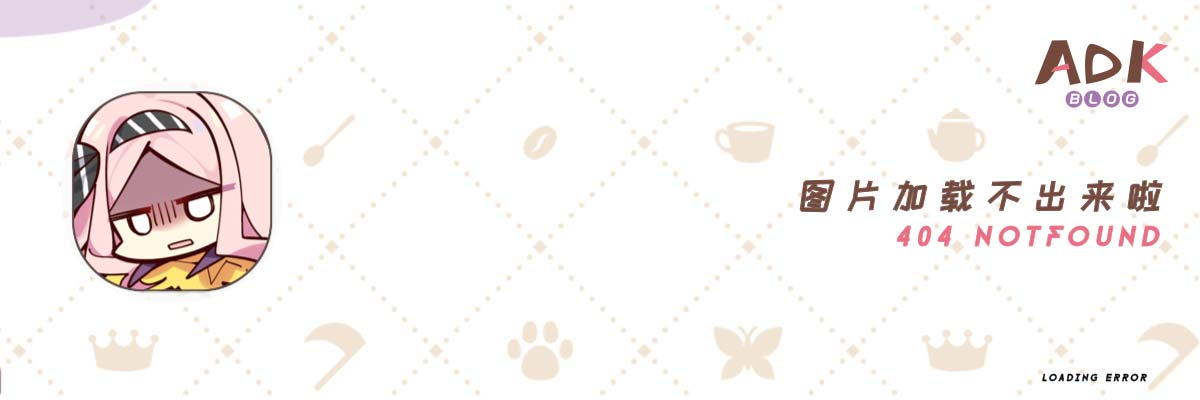
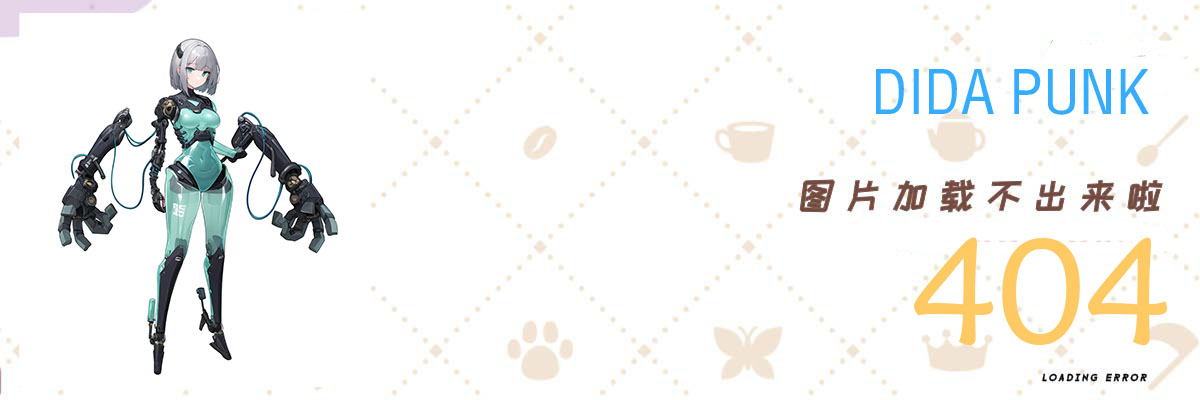
update

diff --git a/src/views/market/index.vue b/src/views/market/index.vue
@@ -1,170 +1,5 @@
 <template>
-  <div class="container-out">
-    <div class="top" ref="body" :style="{ perspectiveOrigin: `${581 + xPos}px ${476 + yPos}px` }">
-      <div class="container">
-        <div class="box" :style="{ transform: 'translate3d(-20px,350px,0px)' }">
-          <div class="mian1"></div>
-          <div class="mian2"></div>
-          <div class="mian3"></div>
-          <div class="mian4"></div>
-          <div class="mian5"></div>
-          <div class="mian6"></div>
-        </div>
-      </div>
-      <div class="container">
-        <div class="box" :style="{ transform: 'translate3d(230px,350px,0px)' }">
-          <div class="mian1"></div>
-          <div class="mian2"></div>
-          <div class="mian3"></div>
-          <div class="mian4"></div>
-          <div class="mian5"></div>
-          <div class="mian6"></div>
-        </div>
-      </div>
-      <div class="container">
-        <div class="box" :style="{ transform: 'translate3d(-20px,100px,-100px)', zIndex: -1 }">
-          <h2>我的微信是Adkweixin-</h2>
-          <div class="mian1"></div>
-          <div class="mian2"></div>
-          <div class="mian3"></div>
-          <div class="mian4"></div>
-          <div class="mian5"></div>
-          <div class="mian6"></div>
-        </div>
-      </div>
-      <div class="container">
-        <div class="box" :style="{ transform: 'translate3d(335px, 67px, 85px)', zIndex: 10 }">
-          <h2>你好~~~ 被你找到啦wwww</h2>
-          <div class="mian1"></div>
-          <div class="mian2"></div>
-          <div class="mian3"></div>
-          <div class="mian4"></div>
-          <div class="mian5"></div>
-          <div class="mian6"></div>
-        </div>
-      </div>
-      <div class="container">
-        <div class="box" :style="{ transform: 'translate3d(738px, 381px, -812px)', zIndex: -1 }">
-          <h2>可以给我留个言吗~</h2>
-          <div class="mian1"></div>
-          <div class="mian2"></div>
-          <div class="mian3"></div>
-          <div class="mian4"></div>
-          <div class="mian5"></div>
-          <div class="mian6"></div>
-        </div>
-      </div>
-      <div class="container">
-        <div class="box" :style="{ transform: 'translate3d(628px, 114px, -339px)', zIndex: -10 }">
-          <div class="mian1"></div>
-          <div class="mian2"></div>
-          <div class="mian3"></div>
-          <div class="mian4"></div>
-          <div class="mian5"></div>
-          <div class="mian6"></div>
-        </div>
-      </div>
-      <div class="container">
-        <div class="box" :style="{ transform: 'translate3d(1000px, 0px, -698px)', zIndex: -10 }">
-          <div class="mian1"></div>
-          <div class="mian2"></div>
-          <div class="mian3"></div>
-          <div class="mian4"></div>
-          <div class="mian5"></div>
-          <div class="mian6"></div>
-        </div>
-      </div>
-      <div class="container">
-        <div class="box" :style="{ transform: 'translate3d(142px, 628px, -252px)', zIndex: -1 }">
-          <div class="mian1"></div>
-          <div class="mian2"></div>
-          <div class="mian3"></div>
-          <div class="mian4"></div>
-          <div class="mian5"></div>
-          <div class="mian6"></div>
-        </div>
-      </div>
-      <div class="container">
-        <div class="box" :style="{ transform: 'translate3d(443px, 746px, -111px)', zIndex: -1 }">
-          <div class="mian1"></div>
-          <div class="mian2"></div>
-          <div class="mian3"></div>
-          <div class="mian4"></div>
-          <div class="mian5"></div>
-          <div class="mian6"></div>
-        </div>
-      </div>
-      <div class="container">
-        <div class="box" :style="{ transform: 'translate3d(487px, 602px, 500px)', zIndex: 1 }">
-          <div class="mian1"></div>
-          <div class="mian2"></div>
-          <div class="mian3"></div>
-          <div class="mian4"></div>
-          <div class="mian5"></div>
-          <div class="mian6"></div>
-        </div>
-      </div>
-      <div class="container">
-        <div class="box" :style="{ transform: 'translate3d(287px, 497px, 786px)', zIndex: 10 }">
-          <h2>关注b站NotFoundUsser</h2>
-          <div class="mian1" style="filter: brightness(0.9); blur: (2px)"></div>
-          <div class="mian2" style="filter: brightness(0.9); blur: (2px)"></div>
-          <div class="mian3" style="filter: brightness(0.9); blur: (2px)"></div>
-          <div class="mian4" style="filter: brightness(0.9); blur: (2px)"></div>
-          <div class="mian5" style="filter: brightness(0.9); blur: (2px)"></div>
-          <div class="mian6" style="filter: brightness(0.9); blur: (2px)"></div>
-        </div>
-      </div>
-      <div class="container">
-        <div class="box" :style="{ transform: 'translate3d(560px, 540px, 796px)', zIndex: 1 }">
-          <div class="mian1" style="filter: brightness(0.9)"></div>
-          <div class="mian2" style="filter: brightness(0.9)"></div>
-          <div class="mian3" style="filter: brightness(0.9)"></div>
-          <div class="mian4" style="filter: brightness(0.9)"></div>
-          <div class="mian5" style="filter: brightness(0.9)"></div>
-          <div class="mian6" style="filter: brightness(0.9)"></div>
-        </div>
-      </div>
-      <div class="logo">
-        <img src="@/assets/img/new-logo.png" alt="logo" />
-        <p style="font-size: 20px; margin-bottom: 10px">基于Vite和Vue3的个人博客</p>
-        <AdkButton
-          :spacing="0.6"
-          type="success"
-          :main-textsize="1.2"
-          @click="$router.push('/index')"
-        >
-          進入博客
-          <template #endesc> enter blog </template>
-        </AdkButton>
-      </div>
-      <ul class="icon-group">
-        <li>
-          <a href="https://github.com/ADKcodeXD" target="_blank"
-            ><i class="iconfont icon-github"></i
-          ></a>
-        </li>
-        <li>
-          <a href="https://space.bilibili.com/2988768" target="_blank"
-            ><i class="iconfont icon-bilibili-line"></i
-          ></a>
-        </li>
-        <li>
-          <a href="https://twitter.com/ADKinsoMaD" target="_blank"
-            ><i class="iconfont icon-tuite"></i
-          ></a>
-        </li>
-      </ul>
-    </div>
+  <div>
+    <img style="width: 100%" src="@/assets/img/shigong.jpg" alt="" />
   </div>
 </template>
-<script setup lang="ts">
-import { useMousePointer } from '@/hooks/useMouseAdk'
-import { useMouse } from '@vueuse/core'
-const { x, y } = useMouse()
-const body = ref<HTMLElement | null>(null)
-const { xPos, yPos } = useMousePointer(x, y, 5)
-</script>
-<style lang="less" scoped>
-// @import url(./styles/NewIndex.less);
-</style>

diff --git a/components.d.ts b/components.d.ts
@@ -13,11 +13,15 @@ declare module 'vue' {
     Carousel: typeof import('./src/components/Carousel/Carousel.vue')['default']
     ChatRoom: typeof import('./src/components/ChatRoom/ChatRoom.vue')['default']
     CommentItem: typeof import('./src/components/CommentItem/CommentItem.vue')['default']
+    ElAlert: typeof import('element-plus/es')['ElAlert']
     ElButton: typeof import('element-plus/es')['ElButton']
+    ElButtonGroup: typeof import('element-plus/es')['ElButtonGroup']
     ElCard: typeof import('element-plus/es')['ElCard']
     ElCarouselItem: typeof import('element-plus/es')['ElCarouselItem']
     ElCol: typeof import('element-plus/es')['ElCol']
     ElColorPicker: typeof import('element-plus/es')['ElColorPicker']
+    ElDatePicker: typeof import('element-plus/es')['ElDatePicker']
+    ElDialog: typeof import('element-plus/es')['ElDialog']
     ElDivider: typeof import('element-plus/es')['ElDivider']
     ElDropdown: typeof import('element-plus/es')['ElDropdown']
     ElDropdownItem: typeof import('element-plus/es')['ElDropdownItem']
@@ -27,14 +31,25 @@ declare module 'vue' {
     ElFormItem: typeof import('element-plus/es')['ElFormItem']
     ElHeader: typeof import('element-plus/es')['ElHeader']
     ElImage: typeof import('element-plus/es')['ElImage']
+    ElImageViewer: typeof import('element-plus/es')['ElImageViewer']
     ElInput: typeof import('element-plus/es')['ElInput']
+    ElOption: typeof import('element-plus/es')['ElOption']
+    ElPagination: typeof import('element-plus/es')['ElPagination']
+    ElRadio: typeof import('element-plus/es')['ElRadio']
+    ElRadioGroup: typeof import('element-plus/es')['ElRadioGroup']
     ElRow: typeof import('element-plus/es')['ElRow']
     ElScrollbar: typeof import('element-plus/es')['ElScrollbar']
+    ElSelect: typeof import('element-plus/es')['ElSelect']
     ElSlider: typeof import('element-plus/es')['ElSlider']
     ElSwitch: typeof import('element-plus/es')['ElSwitch']
+    ElTable: typeof import('element-plus/es')['ElTable']
+    ElTableColumn: typeof import('element-plus/es')['ElTableColumn']
+    ElTabPane: typeof import('element-plus/es')['ElTabPane']
+    ElTabs: typeof import('element-plus/es')['ElTabs']
     ElTag: typeof import('element-plus/es')['ElTag']
     ElTimeline: typeof import('element-plus/es')['ElTimeline']
     ElTimelineItem: typeof import('element-plus/es')['ElTimelineItem']
+    ElUpload: typeof import('element-plus/es')['ElUpload']
     FollowBangumiCard: typeof import('./src/components/FollowBangumiCard/FollowBangumiCard.vue')['default']
     FooterItem: typeof import('./src/components/Footer/FooterItem.vue')['default']
     Loading: typeof import('element-plus/es')['ElLoadingDirective']

diff --git a/src/views/aboutme/AboutMePage.vue b/src/views/aboutme/AboutMePage.vue
@@ -5,9 +5,9 @@
         <MyElimage :img="Touxiang" />
       </div>
       <h1 class="welcome" id="welcome">你好 旅行者</h1>
-      <h2 class="dida" id="dida">这里是嘀嗒博客站</h2>
+      <h2 class="dida" id="dida">这里是往生堂</h2>
       <div class="profile" id="profile">
-        <p class="label-1" :data-index="0">注册后可以进行发布文章，插图等操作。</p>
+        <p class="label-1" :data-index="0">注册后可以解锁发布文章等其他功能。</p>
         <p class="label-1" :data-index="1">
           后期可以去委托栏查看其他用户发布的任务，完成委托后成果物会发送给对方进行审核，核算后账户会发送对应的特许卷奖励
         </p>
@@ -18,13 +18,13 @@
           当别人接下委托完成并提交后，自己账号会收到成果物来审核，审核通过后特许卷会进行扣除并奖励给接收方
         </p>
         <p class="label-1" :data-index="4">
-          每月月底会进行资金池结算，群商城也会同步上架当期奖励物品，每样商品所需的特许卷不一样，用户可以根据自己手上的特许卷进行兑换
+          每月月底会进行资金池结算，往生堂也会同步上架各种奖励物品，每样商品所需的特许卷不一样，用户可以根据自己手上的特许卷进行兑换
         </p>
         <p class="label-1" :data-index="5">
-          目前还有很多待开发的东西如任务委托板块，天书板块，定时任务板块、AI板块、虚拟直播、量化盘、群AI同步等等
+          目前还有很多待开发的东西如任务委托板块，定时任务系统、AI板块、虚拟直播、量化盘、群AI机器人同步等
         </p>
         <p class="label-1" :data-index="7">
-          有想法建议的可以去<RouterLink to="/messageboard">留言板</RouterLink>给我留言
+          有想法建议的可以去<RouterLink to="/index/messageboard">任务板</RouterLink>给我留言
         </p>
         <p class="label-1" :data-index="9">写于2024.1.6 in 往生堂</p>
       </div>
@@ -32,7 +32,7 @@
         <div class="logo-img">
           <MyElimage :img="Logo" />
         </div>
-        <p class="logo2" :data-index="1">DIDA-blog 嘀嗒博客站</p>
+        <p class="logo2" :data-index="1">DIDA-PUNK 往生堂</p>
       </div>
     </div>
   </div>

diff --git a/src/assets/styles/global/element-plus.less b/src/assets/styles/global/element-plus.less
@@ -15,13 +15,13 @@
   --el-component-size-small: 24px;
   --el-color-white: @bgColor;
   --el-color-black: @textColor;
-  --el-color-primary: @themeColor;
-  --el-color-primary-light-3: color-mix(in srgb, @themeColor 10%, white);
-  --el-color-primary-light-5: color-mix(in srgb, @themeColor 15%, white);
-  --el-color-primary-light-7: color-mix(in srgb, @themeColor 20%, white);
-  --el-color-primary-light-8: color-mix(in srgb, @themeColor 25%, white);
-  --el-color-primary-light-9: color-mix(in srgb, @themeColor 30%, white);
-  --el-color-primary-dark-2: color-mix(in srgb, @themeColor 10%, black);
+  --el-color-primary: @themeColor2;
+  --el-color-primary-light-3: color-mix(in srgb, @themeColor2 10%, white);
+  --el-color-primary-light-5: color-mix(in srgb, @themeColor2 15%, white);
+  --el-color-primary-light-7: color-mix(in srgb, @themeColor2 20%, white);
+  --el-color-primary-light-8: color-mix(in srgb, @themeColor2 25%, white);
+  --el-color-primary-light-9: color-mix(in srgb, @themeColor2 30%, white);
+  --el-color-primary-dark-2: color-mix(in srgb, @themeColor2 10%, black);
   --el-color-success: #67c23a;
   --el-color-success-light-3: #95d475;
   --el-color-success-light-5: #b3e19d;

diff --git a/src/components/TopNavBar/components/Pollup.vue b/src/components/TopNavBar/components/Pollup.vue
@@ -49,7 +49,7 @@
         </router-link>
         <router-link @click="closePollup" to="/index/messageboard" active-class="router-active">
           <SvgIcon name="pinglun" class="tw-w-12 tw-h-12 tw-mr-2" />
-          留言板
+          任务板
         </router-link>
         <!-- <router-link @click="closePollup" to="/index/anime" active-class="router-active">
           <SvgIcon name="bofang" class="tw-w-12 tw-h-12 tw-mr-2" />
@@ -62,6 +62,10 @@
         <router-link @click="closePollup" to="/index/picture" active-class="router-active">
           <SvgIcon name="tupian" class="tw-w-12 tw-h-12 tw-mr-2" />
           画廊
+        </router-link>
+        <router-link @click="closePollup" to="/index/market" active-class="router-active">
+          <SvgIcon name="xinxi" class="tw-w-12 tw-h-12 tw-mr-2" />
+          市场
         </router-link>
       </div>
       <div class="button-login" v-if="userinfo.id">

diff --git a/src/router/index.ts b/src/router/index.ts
@@ -7,7 +7,7 @@ import '@/assets/styles/myNprogress.css'
 const routes: RouteRecordRaw[] = [
   {
     path: '/',
-    redirect: '/login'
+    redirect: '/index'
   },
   {
     path: '/index',
@@ -165,14 +165,14 @@ const routes: RouteRecordRaw[] = [
         component: () => import('@/views/picture/Picture.vue')
       },
       {
-        path: 'friendslink',
-        name: 'FriendsLink',
+        path: 'market',
+        name: 'Market',
         meta: {
-          title: '友情链接',
-          requireAuth: false,
-          keepAlive: false
+          title: '市场',
+          requireAuth: true,
+          keepAlive: true
         },
-        component: () => import('@/views/friendslink/FriendsLinkPage.vue')
+        component: () => import('@/views/market/index.vue')
       },
       {
         path: 'updatearticle/:id',

diff --git a/index.html b/index.html
@@ -2,13 +2,13 @@
 <html lang="cn">
   <head>
     <meta charset="UTF-8" />
-    <title>DIDA博客站</title>
+    <title>DIDA-PUNK</title>
     <link rel="icon" href="/favicon.ico" />
     <meta name="viewport" content="width=device-width, initial-scale=1.0" />
-    <meta name="description" content="DIDA博客站" />
+    <meta name="description" content="DIDA-PUNK" />
     <meta
       name="keywords"
-      content="个人博客,DIDA-blog,DIDA,waterdrop,VUE博客"
+      content="个人博客,DIDA-PUNK,DIDA,waterdrop"
     />
     <meta name="author" content="GGT" />
     <meta name="viewport" content="width=device-width,initial-scale=1.0" />

diff --git a/src/views/animedetail/index.vue b/src/views/animedetail/index.vue
@@ -136,10 +136,10 @@ provide('infoboxVal', infoBox)
 useHead({
   title: computed(() => {
     if (animeDetail.value) {
-      if (animeDetail.value.name_cn) return `${animeDetail.value.name_cn}-DIDA-BLOG`
-      else return `${animeDetail.value.name}-DIDA-BLOG`
+      if (animeDetail.value.name_cn) return `${animeDetail.value.name_cn}-DIDA-PUNK`
+      else return `${animeDetail.value.name}-DIDA-PUNK`
     } else {
-      return '动漫详情-DIDA-BLOG'
+      return '动漫详情-DIDA-PUNK'
     }
   }),
   meta: [

diff --git a/src/components/TopNavBar/components/PcMenu.vue b/src/components/TopNavBar/components/PcMenu.vue
@@ -54,9 +54,9 @@
               <el-dropdown-item>
                 <div
                   class="tw-flex tw-justify-between tw-items-center"
-                  @click="$router.push('/market')"
+                  @click="$router.push('/index/market')"
                 >
-                  <SvgIcon name="yonghu" class="tw-w-8 tw-h-8 tw-mr-2" />
+                  <SvgIcon name="xinxi" class="tw-w-8 tw-h-8 tw-mr-2" />
                   <p>市场</p>
                 </div>
               </el-dropdown-item>

diff --git a/src/views/index/index.vue b/src/views/index/index.vue
@@ -10,10 +10,10 @@
       v-if="userInfo.user.token && userInfo.followBangumiCard"
       @hide="hideFollowBgmCard"
     /> -->
-    <SubTitle> 看看新番 </SubTitle>
+    <!-- <SubTitle> 看看新番 </SubTitle>
     <section class="bangumi">
       <Bangumimini />
-    </section>
+    </section> -->
     <SubTitle> 文章板块 </SubTitle>
     <section class="view-content">
       <aside class="article">

diff --git a/src/views/login/index.vue b/src/views/login/index.vue
@@ -43,7 +43,7 @@
           <div class="loginform">
             <div class="tw-w-48 tw-my-5 label--big">
               <p class="zh">登录</p>
-              <p class="en">Login to DIDA-BLOG</p>
+              <p class="en">Login to DIDA-PUNK</p>
             </div>
             <ElForm label-position="left" ref="ruleFormRef" :rules="rules" :model="form">
               <ElFormItem prop="username">

diff --git a/src/components/Footer/FooterItem.vue b/src/components/Footer/FooterItem.vue
@@ -1,7 +1,7 @@
 <template>
   <footer class="footer">
     <aside class="left">
-      <p class="one">DIDA-blog</p>
+      <p class="one">DIDA-PUNK</p>
       <p class="two">仅供学习使用 本博客站为个人用途 无任何盈利用途</p>
       <!-- <p class="three">
         备案/许可证编号:<a href="https://beian.miit.gov.cn" target="_blank">粤ICP备2022022555号</a>
